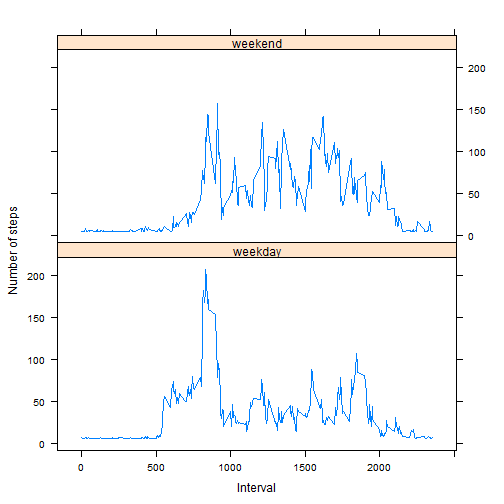
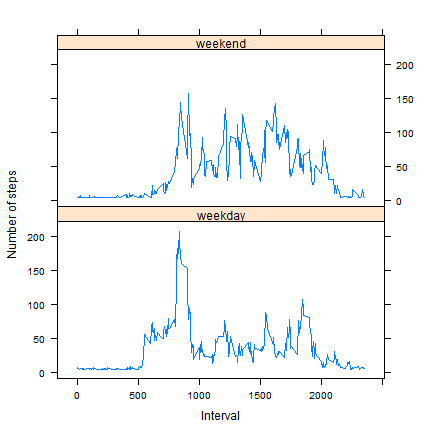
5th commit

Changed region(s): [[0.0, 0.0602, 0.963, 0.9931]]

diff --git a/PA1_template.html b/PA1_template.html
@@ -387,7 +387,7 @@ colnames(act4)[3]&lt;-&quot;avg_steps&quot;
 xyplot(avg_steps ~ interval| wk_day,data = act4,type = &quot;l&quot;,xlab = &quot;Interval&quot;,ylab = &quot;Number of steps&quot;,layout=c(1,2))
 </code></pre>
 
[2 lines of base64/hex data omitted]
 
 <p>based on the panel plot, there is a difference in activity patterns between weekday and weekend. During weekends, the activity levels are consistently high throughout the day, whereas during weekdays there is a spike in activity mostly during the start and end of the day only.</p>
 

diff --git a/PA1_template.md b/PA1_template.md
@@ -224,12 +224,13 @@ str(act4)
 
 Now lets create a panel plot using the factor variable we just created for weekend. Note that the steps have been averaged across weekend factor varible as well as interval.
 
+
 ```r
 act4<-summarize(group_by(act4,wk_day,interval),mean(steps))
 colnames(act4)[3]<-"avg_steps"
 xyplot(avg_steps ~ interval| wk_day,data = act4,type = "l",xlab = "Interval",ylab = "Number of steps",layout=c(1,2))
 ```
 
-![plot of chunk panel_plot](figure/panel_plot-1.png) 
+<img src="figure/panel_plot-1.png" title="plot of chunk panel_plot" alt="plot of chunk panel_plot" style="display: block; margin: auto auto auto 0;" />
 
 based on the panel plot, there is a difference in activity patterns between weekday and weekend. During weekends, the activity levels are consistently high throughout the day, whereas during weekdays there is a spike in activity mostly during the start and end of the day only.
